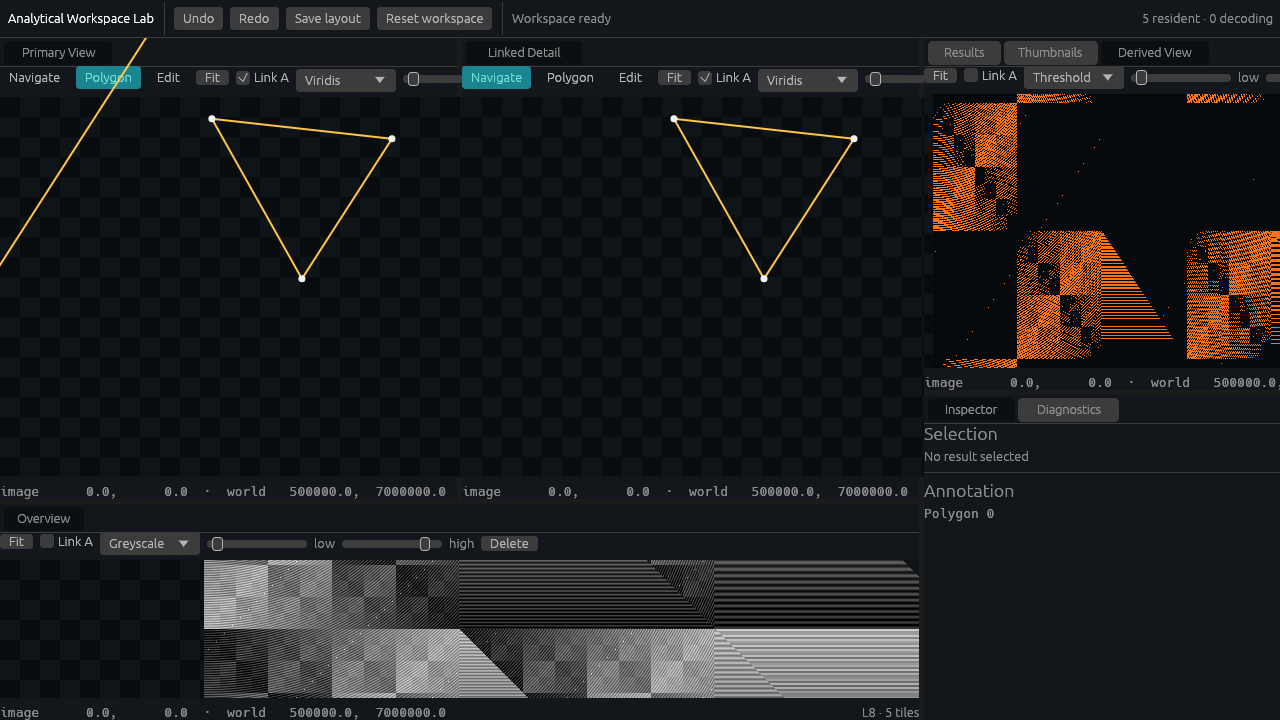
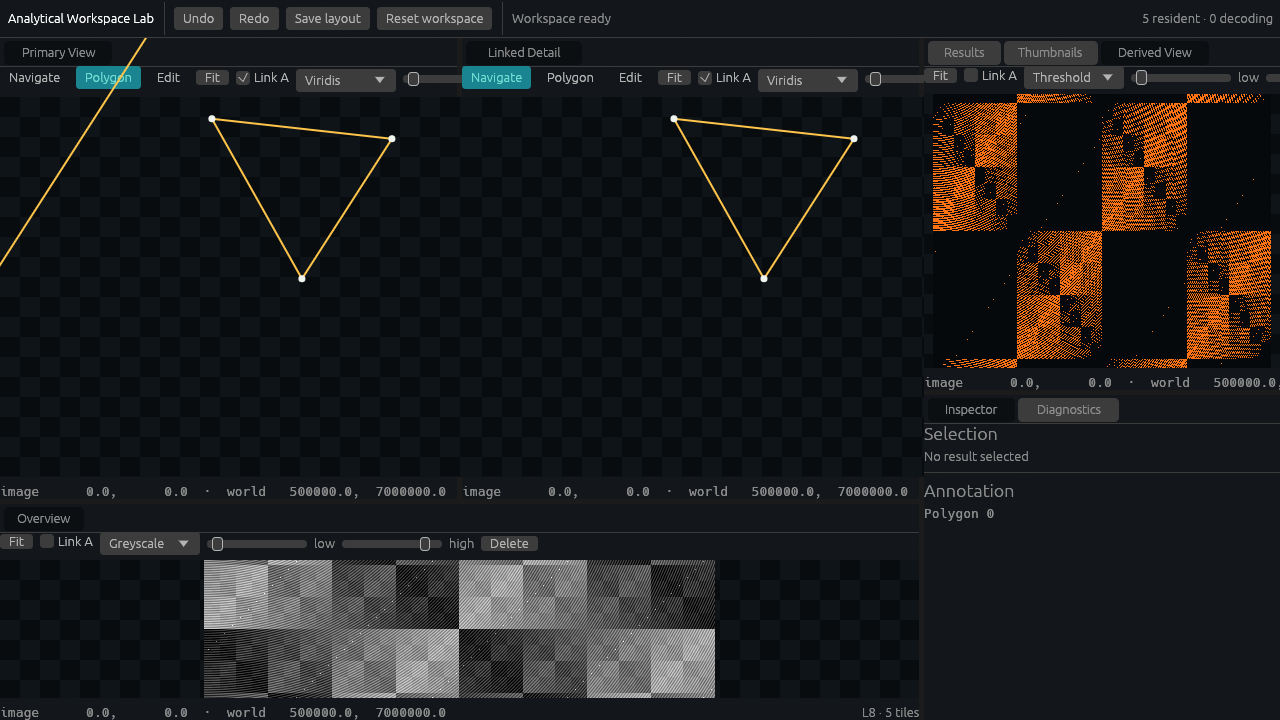
Bound scalar tiles to projected geometry

Changed region(s): [[0.3438, 0.7639, 0.7188, 0.9778], [0.8438, 0.1222, 0.9375, 0.5194], [0.9688, 0.3361, 1.0, 0.3972]]

diff --git a/crates/workspace-render-wgpu/src/lib.rs b/crates/workspace-render-wgpu/src/lib.rs
@@ -115,6 +115,7 @@ struct PaneDraw {
 
 pub struct ScalarRenderer {
     pipeline: wgpu::RenderPipeline,
+    tile_vertices: wgpu::Buffer,
     bind_layout: wgpu::BindGroupLayout,
     textures: BTreeMap<TileKey, ScalarTexture>,
     panes: BTreeMap<PaneId, PaneDraw>,
@@ -163,6 +164,11 @@ impl ScalarRenderer {
             bind_group_layouts: &[Some(&bind_layout)],
             immediate_size: 0,
         });
+        let tile_vertices = device.create_buffer_init(&wgpu::util::BufferInitDescriptor {
+            label: Some("polyorama bounded tile quad"),
+            contents: bytemuck::cast_slice(&TILE_QUAD),
+            usage: wgpu::BufferUsages::VERTEX,
+        });
         let pipeline = device.create_render_pipeline(&wgpu::RenderPipelineDescriptor {
             label: Some("polyorama scalar pipeline"),
             layout: Some(&layout),
@@ -170,7 +176,15 @@ impl ScalarRenderer {
                 module: &shader,
                 entry_point: Some("vs_main"),
                 compilation_options: Default::default(),
-                buffers: &[],
+                buffers: &[Some(wgpu::VertexBufferLayout {
+                    array_stride: std::mem::size_of::<[f32; 2]>() as u64,
+                    step_mode: wgpu::VertexStepMode::Vertex,
+                    attributes: &[wgpu::VertexAttribute {
+                        format: wgpu::VertexFormat::Float32x2,
+                        offset: 0,
+                        shader_location: 0,
+                    }],
+                })],
             },
             fragment: Some(wgpu::FragmentState {
                 module: &shader,
@@ -197,6 +211,7 @@ impl ScalarRenderer {
         }
         Self {
             pipeline,
+            tile_vertices,
             bind_layout,
             textures: BTreeMap::new(),
             panes: BTreeMap::new(),
@@ -388,12 +403,22 @@ impl ScalarRenderer {
             0.0,
             1.0,
         );
+        render_pass.set_vertex_buffer(0, self.tile_vertices.slice(..));
         for tile in &draw.tiles {
             render_pass.set_bind_group(0, &tile.bind_group, &[]);
-            render_pass.draw(0..3, 0..1);
+            render_pass.draw(0..TILE_QUAD.len() as u32, 0..1);
         }
     }
 }
+
+const TILE_QUAD: [[f32; 2]; 6] = [
+    [0.0, 0.0],
+    [1.0, 0.0],
+    [0.0, 1.0],
+    [0.0, 1.0],
+    [1.0, 0.0],
+    [1.0, 1.0],
+];
 
 fn tile_ndc_rect(request: &ImageRenderRequest, key: TileKey) -> [f32; 4] {
     let scale = request.viewport.scale_factor.max(f32::EPSILON) as f64;
@@ -430,12 +455,10 @@ struct Display { low: f32, high: f32, map: u32, padding: u32, rect_ndc: vec4<f32
 @group(0) @binding(1) var<uniform> display: Display;
 
 struct VertexOut { @builtin(position) position: vec4<f32>, @location(0) uv: vec2<f32> };
-@vertex fn vs_main(@builtin(vertex_index) index: u32) -> VertexOut {
-    var positions = array<vec2<f32>, 3>(vec2(-1.0, -1.0), vec2(3.0, -1.0), vec2(-1.0, 3.0));
+@vertex fn vs_main(@location(0) local: vec2<f32>) -> VertexOut {
     var out: VertexOut;
-    let local = positions[index] * 0.5 + vec2(0.5);
     out.position = vec4(mix(display.rect_ndc.xy, display.rect_ndc.zw, local), 0.0, 1.0);
-    out.uv = positions[index] * vec2(0.5, -0.5) + vec2(0.5);
+    out.uv = vec2(local.x, 1.0 - local.y);
     return out;
 }
 fn viridis(t: f32) -> vec3<f32> {
@@ -511,5 +534,19 @@ mod tests {
         let after = tile_ndc_rect(&request(zoomed), key);
         assert!(after[2] - after[0] > before[2] - before[0]);
         assert!(after[3] - after[1] > before[3] - before[1]);
+    }
+
+    #[test]
+    fn tile_quad_cannot_rasterise_outside_projected_bounds() {
+        assert_eq!(TILE_QUAD.len(), 6);
+        assert!(
+            TILE_QUAD
+                .iter()
+                .flatten()
+                .all(|value| (0.0..=1.0).contains(value))
+        );
+        for corner in [[0.0, 0.0], [1.0, 0.0], [0.0, 1.0], [1.0, 1.0]] {
+            assert!(TILE_QUAD.contains(&corner));
+        }
     }
 }

diff --git a/docs/vertical-slice-report.md b/docs/vertical-slice-report.md
@@ -76,7 +76,7 @@ Native decode uses a named background thread and an explicit egui repaint waker.
 | A04 | Live interaction preview and one durable command per completed gesture | Verified | `GesturePreview`; `complete_gesture_is_one_command`; `splitter_gesture_is_one_undoable_workspace_command`; native polygon/edit/undo/redo sequence | Camera, polygon and splitter previews are painted in the gesture frame; history gains one record at completion. |
 | A05 | Exactly one canonical, versioned dock tree with stable IDs, splits, tabs, resizing, active pane and drag/drop | Verified | Stable `DockNodeId`; node/pane invariant, rearrangement, schema and round-trip tests; `browser-rearranged-dock.png`; native restored layout | Optional close/create was not implemented because it is conditional “where supported”; all mandatory panes remain restorable through Reset. |
 | A06 | One shared wgpu device/queue and renderer resource universe for all viewports | Verified | `ScalarRenderer` is inserted once from `CreationContext::wgpu_render_state`; architecture scan rejects viewport device creation; diagnostics report four GPU viewports | No texture-import or per-pane device architecture exists. |
-| A07 | Typed render plan and correct logical/physical viewport, scale, clipping, focus and pointer-local mapping | Verified | `ViewportAllocation`, `PhysicalViewport`, `ImageRenderRequest`, camera-to-NDC renderer tests, callback `viewport_in_pixels`/`clip_rect_in_pixels`; resize smoke | All four callbacks render inside their allocated pane; camera pan/zoom transforms the tile geometry. |
+| A07 | Typed render plan and correct logical/physical viewport, scale, clipping, focus and pointer-local mapping | Verified | `ViewportAllocation`, `PhysicalViewport`, `ImageRenderRequest`, camera-to-NDC and bounded-quad renderer tests, callback `viewport_in_pixels`/`clip_rect_in_pixels`; clean-edged before/after browser captures; resize smoke | All four callbacks render inside their allocated pane; camera pan/zoom transforms tile geometry and the six-vertex quad cannot rasterise outside a tile's projected bounds. |
 | A08 | Semantic identity is stable across rearrangement | Verified | IDs are scoped from window/pane/feature/domain IDs; pane stability and restored-dock tests | No call-order counter is used as semantic identity. |
 | A09 | Typed UI, physical, viewport, image and world coordinate spaces plus deterministic affine transform | Verified | Coordinate newtypes and affine round-trip test; viewport status lines; world-coordinate annotations | Screen tuples do not cross the domain/render boundary as ambiguous coordinates. |
 | A10 | Agent-friendly dependency direction and durable rules | Verified | `cargo xtask architecture`; `AGENTS.md`; workspace crate graph | Core reducers run with no window/GPU. No fork or general GUI core was introduced. |
@@ -95,12 +95,12 @@ Native decode uses a named background thread and an explicit egui repaint waker.
 | F09 | Two-dimensional 100k thumbnail grid, bounded visible/overscan demand, placeholders, stable selection and recenter path | Verified | Virtual-grid test; browser/native gallery scroll screenshots and worker completions | Thumbnail and result IDs are the same authoritative identity. |
 | F10 | GPU view, results, thumbnails and inspector converge on authoritative session selection; focused command routing | Verified | `Session::selected_result/selected_annotation`; explicit selection intents; stable-selection test; active-pane keyboard guards | Undo/redo is shell-routed; fit/delete/commit are pane-context routed. |
 | F11 | Versioned persistence of canonical layout, pane display, camera links and active pane; browser local storage; visible reset | Verified | `PersistedState`; unknown-schema and round-trip tests; Playwright local-storage/reload assertion; native save/restart screenshot | JavaScript only boots Wasm/Worker and does not mirror state. |
-| S01 | Event-driven repainting with auditable reasons and no deliberate warmed-idle loop | Verified | `RepaintReason` diagnostics; Playwright frame 145 remained 145 for 700 ms | Splitter uses egui's interaction repaint while dragged; no unconditional application repaint exists. |
+| S01 | Event-driven repainting with auditable reasons and no deliberate warmed-idle loop | Verified | `RepaintReason` diagnostics; Playwright frame 147 remained 147 for 700 ms | Splitter uses egui's interaction repaint while dragged; no unconditional application repaint exists. |
 | I01 | Live frame/UI, workspace, renderer, tiles/workers/cache/upload and virtualisation diagnostics | Verified | Diagnostics pane/screenshot and structured browser snapshot | GPU timestamp is explicitly `unavailable`, not relabelled CPU time. |
 | I02 | Structured spans around frame, command, demand, decode, upload, eviction, render preparation, viewport and layout serialisation | Verified | Source span inventory; native subscriber; tracing `log` fallback reaches the browser web logger | Both target builds compile the same instrumented operations. |
 | I03 | Copy/save structured snapshot with versions, backend, viewports, budgets, datasets and counters | Verified | “Copy JSON snapshot”; `browser-diagnostics.json` | Snapshot includes pinned dependency versions; browser adapter name is unavailable and remains empty. |
 | I04 | Honest release observations for all eight specified scenarios, with environment and unavailable metrics distinguished | Verified | `browser-performance.json` and Performance observations below | Splitter/pane-drag observations are additional. |
-| V01 | All specified focused automated tests run without UI/GPU where required | Verified | 21 `workspace-core`, 9 `workspace-runtime` and 2 renderer geometry tests in `cargo test --workspace` | Covers dock, schema, IDs, links, coordinates, validation, history, camera geometry, demand, cache, eviction, invalidation, upload, virtualisation and stable selection. |
+| V01 | All specified focused automated tests run without UI/GPU where required | Verified | 21 `workspace-core`, 9 `workspace-runtime` and 3 renderer geometry tests in `cargo test --workspace` | Covers dock, schema, IDs, links, coordinates, validation, history, camera and bounded-raster geometry, demand, cache, eviction, invalidation, upload, virtualisation and stable selection. |
 | V02 | Native release actually launched and required interactions captured | Verified | `tools/native-smoke.sh`, runtime log, seven native screenshots | Failure scan rejects panic and wgpu fatal errors. |
 | V03 | Browser Wasm actually launched in a real browser, checked and interacted with | Verified | Playwright readiness/dimensions/renderer/worker checks, exact linked-camera assertions, full-compositor pixel-difference check, console failure hooks, pan/zoom/split/drag/save/reload and screenshots | Also restored at 1280×720 and 900×700. |
 | V04 | Mechanical architecture verification | Verified | `cargo xtask architecture` output | Checks dependency trees, narrow pane source, one Workspace definition and no renderer device creation. |
@@ -191,7 +191,7 @@ npm run browser-smoke
 bash tools/native-smoke.sh
 ```
 
-Summary: formatting passed; native and Wasm clippy passed with warnings denied; all 32 focused core/runtime/renderer tests passed; architecture boundaries passed; release native and both release Wasm packages built; Playwright browser smoke passed; native release smoke passed. The browser canvas was 1440×900 with eight registered panes, `wgpu-scalar` readiness, four GPU render jobs and completed Worker decodes. Its linked cameras matched exactly after pan and zoom, while before/after compositor captures differed. The responsive reload probes also produced non-zero 1280×720 and 900×700 canvases. Native smoke reported `GL/llvmpipe, 1440x900` and found no panic or fatal wgpu error.
+Summary: formatting passed; native and Wasm clippy passed with warnings denied; all 33 focused core/runtime/renderer tests passed; architecture boundaries passed; release native and both release Wasm packages built; Playwright browser smoke passed; native release smoke passed. The browser canvas was 1440×900 with eight registered panes, `wgpu-scalar` readiness, four GPU render jobs and completed Worker decodes. Its linked cameras matched exactly after pan and zoom, while before/after compositor captures differed and showed bounded, clean-edged tiles. The responsive reload probes also produced non-zero 1280×720 and 900×700 canvases. Native smoke reported `GL/llvmpipe, 1440x900` and found no panic or fatal wgpu error.
 
 Verification host:
 
@@ -213,16 +213,16 @@ These values are directly measured application-side CPU frame samples from the r
 
 | Scenario | Median | p95 | Direct observation |
 | --- | ---: | ---: | --- |
-| Initial loading | 0.8 ms | 32.8 ms | Twelve samples; startup/first pipeline work dominates the tail. |
-| Four visible GPU viewports while panning | 0.6 ms | 0.9 ms | Linked view updated during the gesture. |
-| Warmed idle | n/a | n/a | Frame counter stayed 150 → 150 over 700 ms; no deliberate continuous repaint. |
-| Rapid zoom/tile-level transitions | 0.6 ms | 127.4 ms | Tail spikes are material and reproducible enough to retain as follow-up. |
-| Million-row result scroll | 0.7 ms | 1.4 ms | Only the visible/overscan range was materialised. |
-| Thumbnail gallery scroll | 0.4 ms | 4.8 ms | Worker-requested visible cells and placeholders were exercised. |
-| Polygon editing | 0.3 ms | 1.2 ms | Three vertices and commit across linked panes. |
-| Saved workspace restore | 0.7 ms | 18.9 ms | Persisted rearranged dock restored after a full reload. |
-| Splitter interaction (additional) | 0.3 ms | 5.4 ms | A transient preview resolved to one canonical, undoable split command. |
-| Pane drag/drop (additional) | 0.5 ms | 0.7 ms | Derived View moved and the empty source split was pruned. |
+| Initial loading | 0.9 ms | 37.3 ms | Nine samples; startup/first pipeline work dominates the tail. |
+| Four visible GPU viewports while panning | 0.6 ms | 0.8 ms | Linked view updated during the gesture. |
+| Warmed idle | n/a | n/a | Frame counter stayed 147 → 147 over 700 ms; no deliberate continuous repaint. |
+| Rapid zoom/tile-level transitions | 0.7 ms | 126.3 ms | Tail spikes are material and reproducible enough to retain as follow-up. |
+| Million-row result scroll | 0.6 ms | 0.9 ms | Only the visible/overscan range was materialised. |
+| Thumbnail gallery scroll | 0.4 ms | 4.3 ms | Worker-requested visible cells and placeholders were exercised. |
+| Polygon editing | 0.4 ms | 0.8 ms | Three vertices and commit across linked panes. |
+| Saved workspace restore | 0.7 ms | 21.7 ms | Persisted rearranged dock restored after a full reload. |
+| Splitter interaction (additional) | 0.4 ms | 5.9 ms | A transient preview resolved to one canonical, undoable split command. |
+| Pane drag/drop (additional) | 0.3 ms | 0.6 ms | Derived View moved and the empty source split was pruned. |
 
 Measured capability and counters from the restored browser snapshot include four GPU viewports/render jobs, one application render pass, 12 counted draw calls, a 64 MiB texture cache budget, 4 MiB upload budget, 655,360 resident texture bytes, zero in-flight decodes and zero failures. Dataset sizes are 1,000,000 results and 100,000 thumbnails.
 
